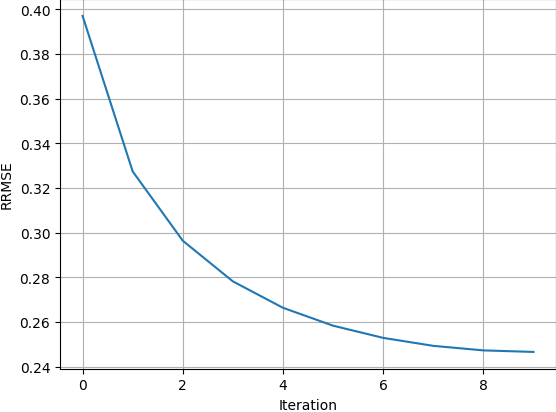
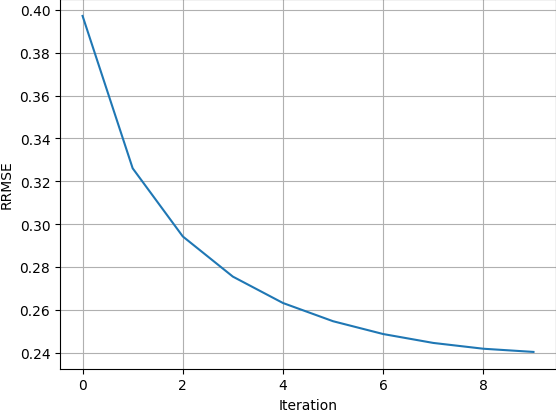
added noise in q4

diff --git a/q4/q4.py b/q4/q4.py
@@ -42,9 +42,16 @@ def rrmse(image1, image2):
 def integrate(f, coords):
     return map_coordinates(f, coords, order=1).sum()
 
+def myXrayCTRadonTransform(f,t_values, theta_values, delta_s):
+    radon_transform = np.zeros((len(t_values),len(theta_values)))
+    for i, t in enumerate(t_values):
+        for j, theta in enumerate(theta_values):
+            radon_transform[i, j] = integrate(f, myXrayIntegration(f,t,theta,delta_s=delta_s))
+    return radon_transform
+
 rrmses = []
-def myART(ordered_projections, lr, num_iterations=100):
-    global image1, rrmses
+def myART(ordered_projections, lr, num_iterations=100, min_t=-255):
+    global image1, rrmses, sinogram
     reconstructed_image = np.zeros(image1.shape)
     num_projections = ordered_projections.shape[0]
     for iteration in range(num_iterations):
@@ -53,7 +60,7 @@ def myART(ordered_projections, lr, num_iterations=100):
             t, theta = ordered_projections[i]
             coords = myXrayIntegration(reconstructed_image, t, theta, delta_s=1)
             current_projection = integrate(reconstructed_image, coords)
-            ordered_projection = integrate(image1, coords)
+            ordered_projection = sinogram[int(t-min_t), int(theta)]
             error = ordered_projection - current_projection
             correction = lr * error / len(coords[0])  
             floored = np.floor(coords).astype(int)
@@ -74,8 +81,13 @@ def myART(ordered_projections, lr, num_iterations=100):
             # if len(latest_rrmses) > 100 and max(latest_rrmses[-101:-1]) < latest_rrmses[-1]:
             #     print("Convergence reached at iteration", iteration, "projection", i)
             #     break
-        rrmses.append(rrmse(image1, reconstructed_image))
-        print(f"Iteration {iteration+1}/{num_iterations}, RRMSE: {rrmses[-1]:.6f}")
+        prev_reconstructed_image = reconstructed_image.copy()
+        rrmse_val = rrmse(image1, reconstructed_image)
+        if rrmses and rrmse_val > rrmses[-1]:
+            reconstructed_image = prev_reconstructed_image
+            break
+        rrmses.append(rrmse_val)
+        print(f"Iteration {iteration+1}/{num_iterations}, RRMSE: {rrmse_val:.6f}")
         # lr /= 10
     # with open('reconstructed_image.txt', 'w') as f:
     #     for row in reconstructed_image:
@@ -90,6 +102,8 @@ def myART(ordered_projections, lr, num_iterations=100):
 t = np.arange(-255, 255, 1)
 thetha = np.arange(0, 180, 1)
 coords = np.array(np.meshgrid(t, thetha)).reshape(2, -1).T
+sinogram = myXrayCTRadonTransform(image1, t, thetha, delta_s=1)
+sinogram += np.random.normal(0, 0.05, size=sinogram.shape) * sinogram
 import random
 random.shuffle(coords)
 
